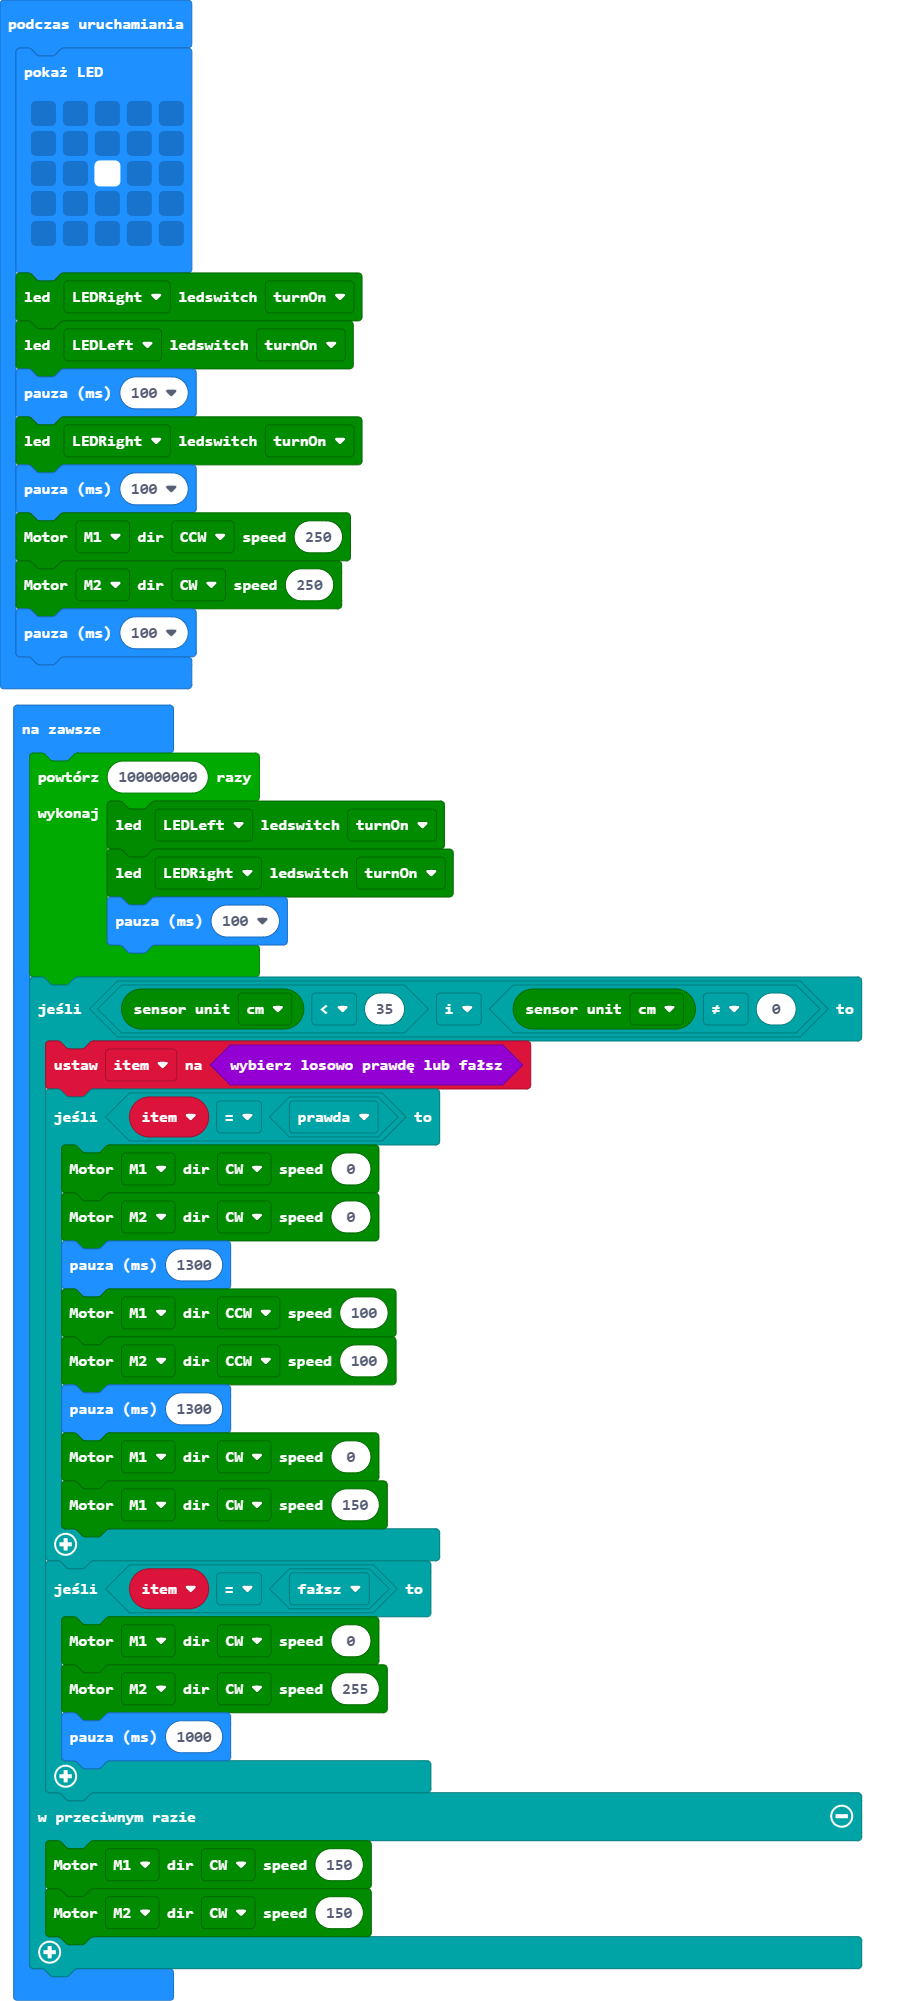
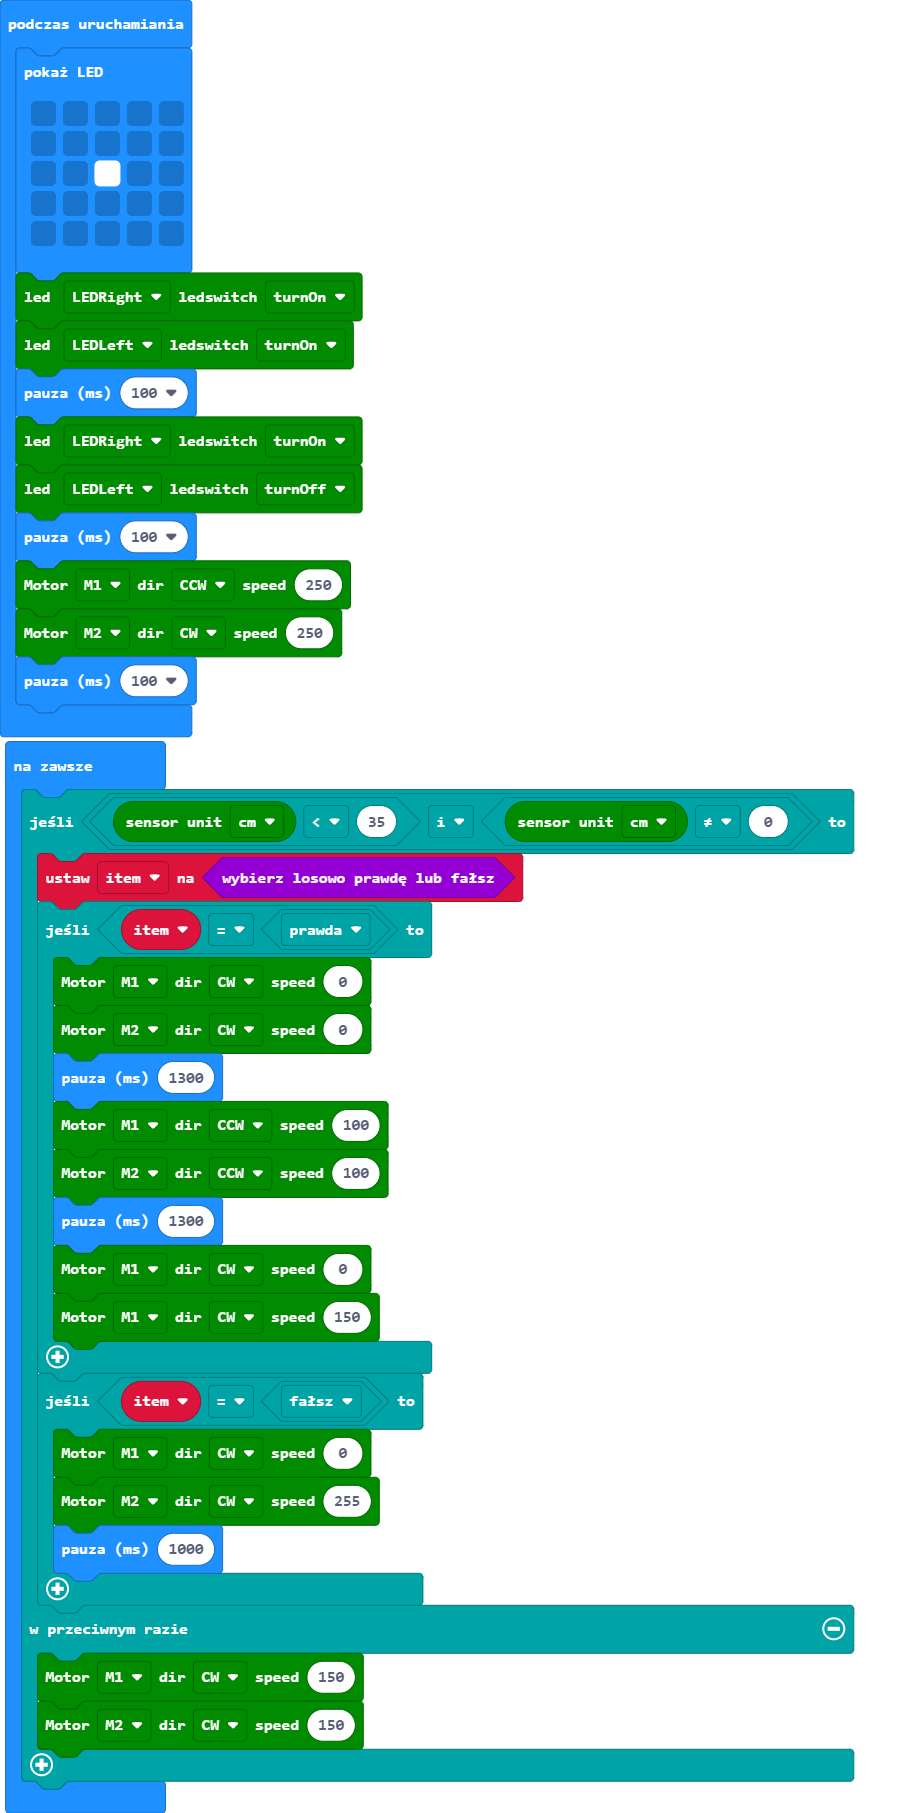
Aktualizacja main.blocks, main.ts

Changed region(s): [[0.0, 0.0, 0.9581, 1.0]]

diff --git a/main.ts b/main.ts
@@ -10,16 +10,12 @@ maqueen.writeLED(maqueen.LED.LEDRight, maqueen.LEDswitch.turnOn)
 maqueen.writeLED(maqueen.LED.LEDLeft, maqueen.LEDswitch.turnOn)
 basic.pause(100)
 maqueen.writeLED(maqueen.LED.LEDRight, maqueen.LEDswitch.turnOn)
+maqueen.writeLED(maqueen.LED.LEDLeft, maqueen.LEDswitch.turnOff)
 basic.pause(100)
 maqueen.MotorRun(maqueen.aMotors.M1, maqueen.Dir.CCW, 250)
 maqueen.MotorRun(maqueen.aMotors.M2, maqueen.Dir.CW, 250)
 basic.pause(100)
 basic.forever(function () {
-    for (let index = 0; index < 100000000; index++) {
-        maqueen.writeLED(maqueen.LED.LEDLeft, maqueen.LEDswitch.turnOn)
-        maqueen.writeLED(maqueen.LED.LEDRight, maqueen.LEDswitch.turnOn)
-        basic.pause(100)
-    }
     if (maqueen.sensor(PingUnit.Centimeters) < 35 && maqueen.sensor(PingUnit.Centimeters) != 0) {
         item = Math.randomBoolean()
         if (item == true) {
